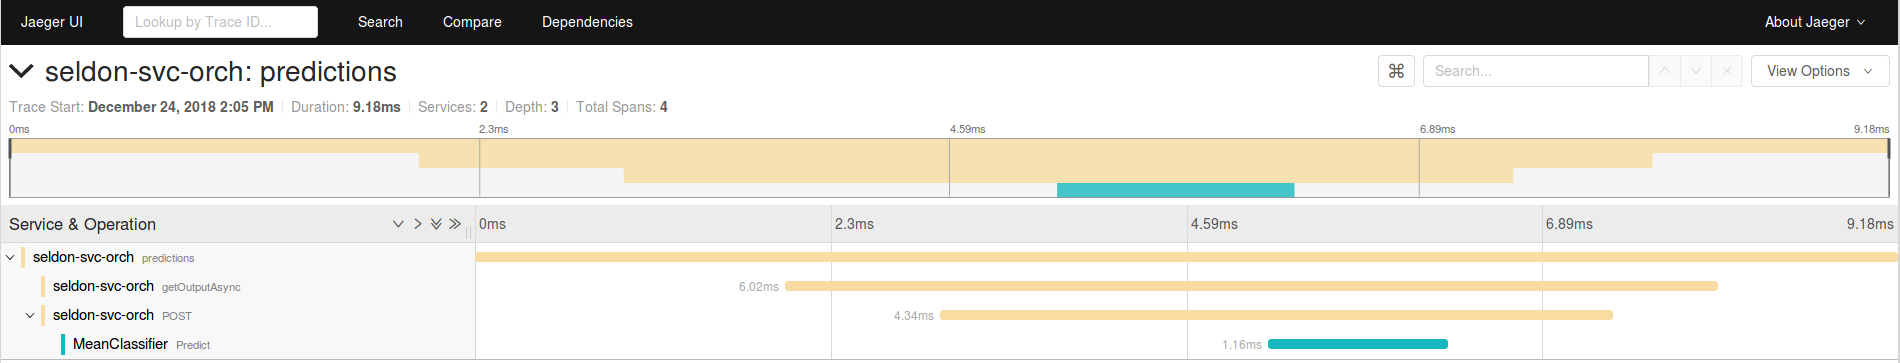
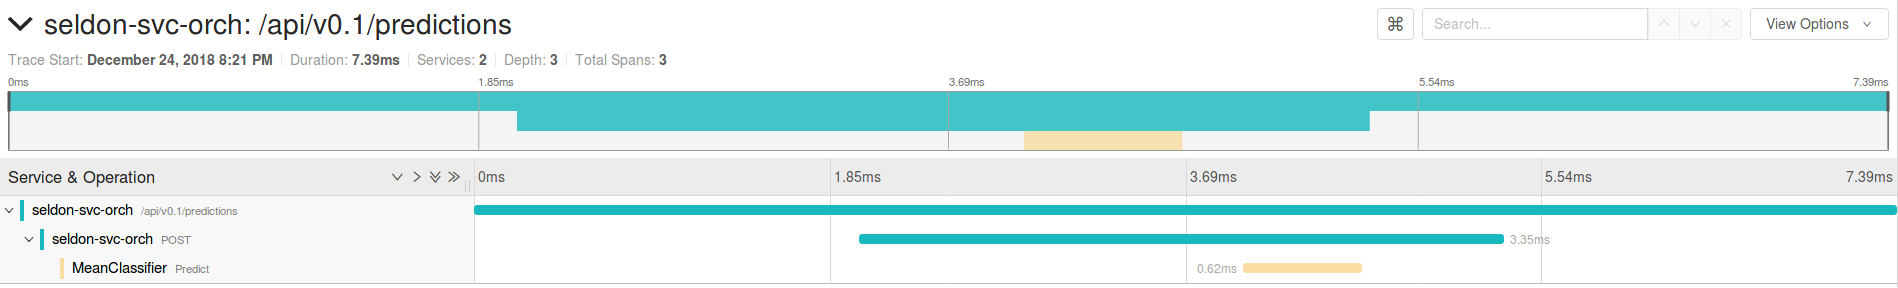
Add manual tracing of REST calls

diff --git a/engine/src/main/java/io/seldon/engine/api/rest/RestClientController.java b/engine/src/main/java/io/seldon/engine/api/rest/RestClientController.java
@@ -34,10 +34,12 @@ import org.springframework.web.bind.annotation.RestController;
 
 import com.google.protobuf.InvalidProtocolBufferException;
 
+import io.opentracing.Scope;
 import io.seldon.engine.exception.APIException;
 import io.seldon.engine.exception.APIException.ApiExceptionType;
 import io.seldon.engine.pb.ProtoBufUtils;
 import io.seldon.engine.service.PredictionService;
+import io.seldon.engine.tracing.TracingProvider;
 import io.seldon.protos.PredictionProtos.Feedback;
 import io.seldon.protos.PredictionProtos.SeldonMessage;
 
@@ -51,6 +53,9 @@ public class RestClientController {
 	
 	@Autowired
 	SeldonGraphReadyChecker readyChecker;
+	
+	@Autowired
+	TracingProvider tracingProvider;
 	
 	private AtomicBoolean ready = new AtomicBoolean(false);
 	
@@ -108,6 +113,11 @@ public class RestClientController {
 	@RequestMapping(value = "/api/v0.1/predictions", method = RequestMethod.POST, consumes = "application/json; charset=utf-8", produces = "application/json; charset=utf-8")
     public ResponseEntity<String> predictions(RequestEntity<String> requestEntity)
 	{
+		Scope tracingScope = null;
+		if (tracingProvider.isActive())
+			tracingScope = tracingProvider.getTracer().buildSpan("/api/v0.1/predictions").startActive(true);
+		try
+		{
 		SeldonMessage request;
 		try
 		{
@@ -140,14 +150,24 @@ public class RestClientController {
 		} catch (InvalidProtocolBufferException e) {
 			throw new APIException(ApiExceptionType.ENGINE_INVALID_JSON,"");
 		} 
+		}
+		finally
+		{
+			if (tracingScope != null)
+				tracingScope.close();
+		}
 
 	}
 	
 	@CrossOrigin(origins = "*")
 	@RequestMapping(value= "/api/v0.1/feedback", method = RequestMethod.POST, consumes = "application/json; charset=utf-8", produces = "application/json; charset=utf-8")
 	public ResponseEntity<String>  feedback(RequestEntity<String> requestEntity) {
-		Feedback feedback;
-		
+		Scope tracingScope = null;
+		if (tracingProvider.isActive())
+			tracingScope = tracingProvider.getTracer().buildSpan("/api/v0.1/feedback").startActive(true);
+		try
+		{
+		Feedback feedback;	
 		try
 		{
 			Feedback.Builder builder = Feedback.newBuilder();
@@ -179,6 +199,13 @@ public class RestClientController {
 		} catch (InvalidProtocolBufferException e) {
 			throw new APIException(ApiExceptionType.ENGINE_INVALID_JSON,"");
 		} 
+		}
+		finally
+		{
+			if (tracingScope != null)
+				tracingScope.close();
+		}
+
     }
 
 }
